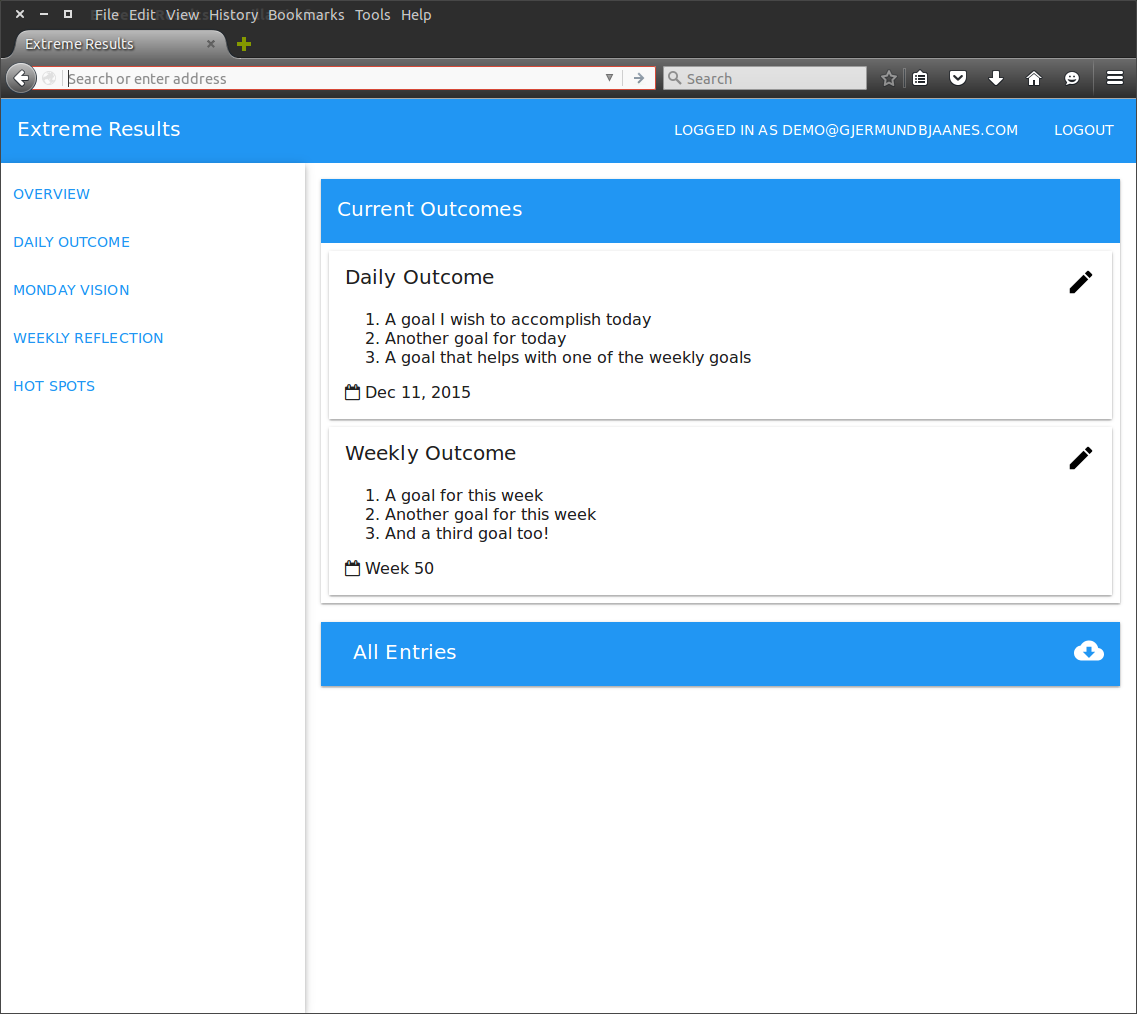
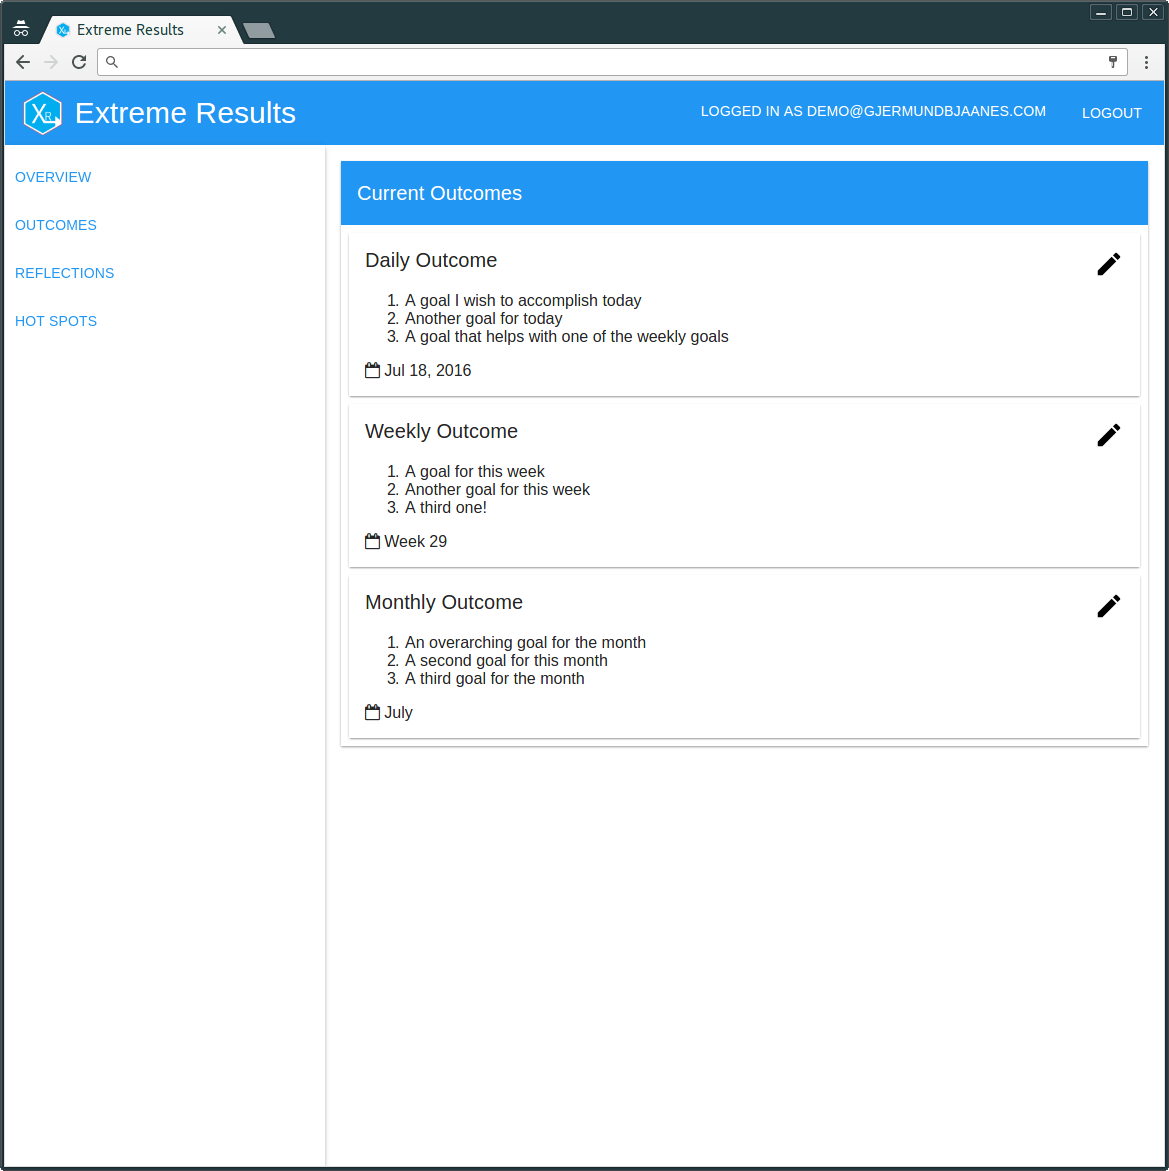
Updated screenshots
Closes #84

diff --git a/README.md b/README.md
@@ -18,17 +18,11 @@ Usually, you would implement Agile Results with pen and paper, or something simp
 ### Overview
 ![Overview](https://raw.githubusercontent.com/bjaanes/ExtremeResults-WebApp/master/screenshots/Overview.png "Overview")
 
-### Daily Outcome
-![Daily Outcome](https://raw.githubusercontent.com/bjaanes/ExtremeResults-WebApp/master/screenshots/DailyOutcome.png "Daily Outcome")
+### Outcomes
+![Outcomes](https://raw.githubusercontent.com/bjaanes/ExtremeResults-WebApp/master/screenshots/Outcomes.png "Outcomes")
 
-### Weekly Outcome
-![Weekly Outcome](https://raw.githubusercontent.com/bjaanes/ExtremeResults-WebApp/master/screenshots/WeeklyOutcome.png "Weekly Outcome")
-
-### Weekly Reflection
-![Weekly Reflection](https://raw.githubusercontent.com/bjaanes/ExtremeResults-WebApp/master/screenshots/WeeklyReflection.png "Weekly Reflection")
-
-### Hot Spots
-![Hot Spots](https://raw.githubusercontent.com/bjaanes/ExtremeResults-WebApp/master/screenshots/HotSpots.png "Hot Spots")
+### Reflections
+![Reflections](https://raw.githubusercontent.com/bjaanes/ExtremeResults-WebApp/master/screenshots/Reflections.png "Reflections")
 
 ## Technology
 
